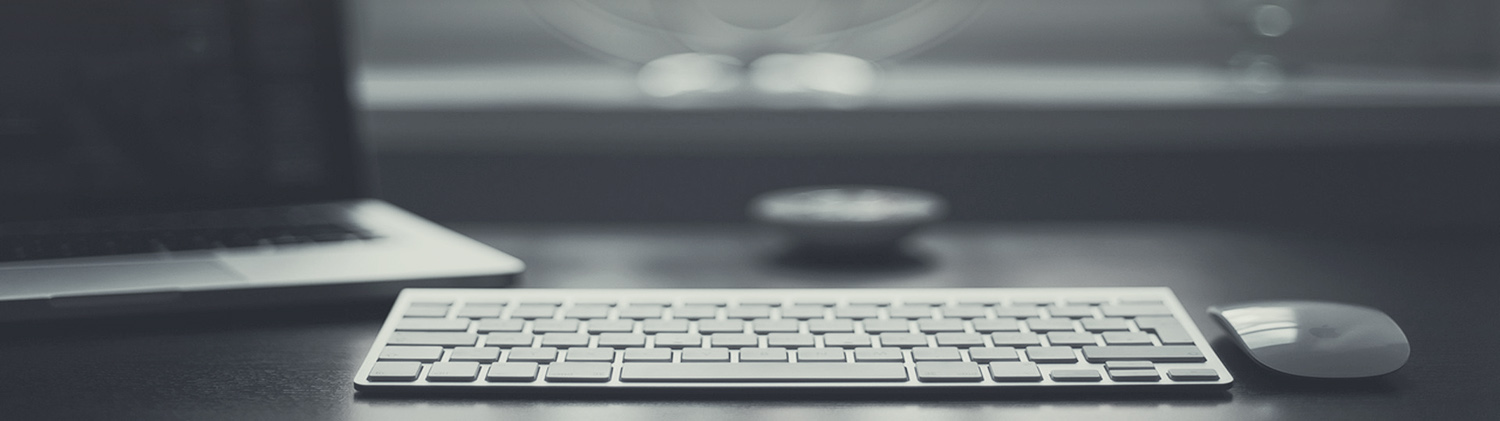
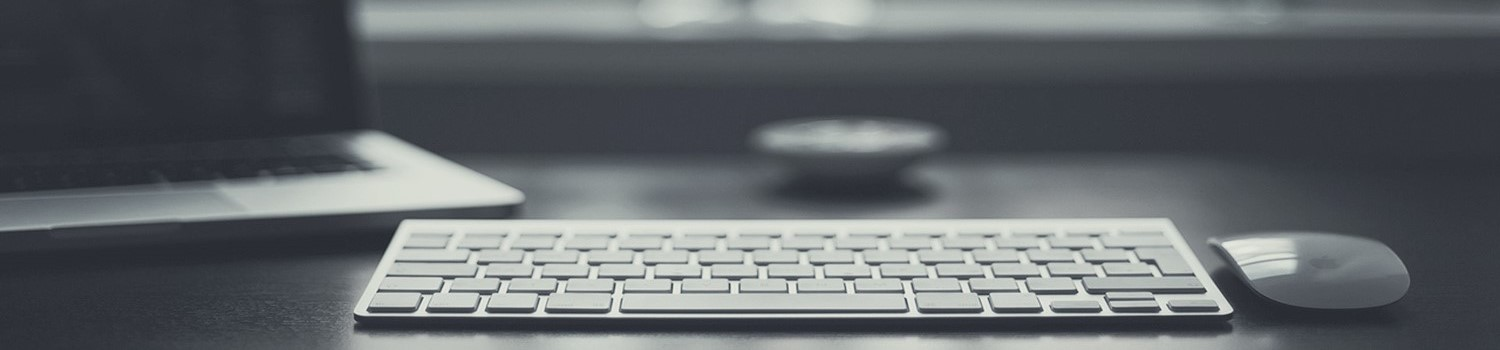
Added Page and navigation

diff --git a/assets/css/main.scss b/assets/css/main.scss
@@ -9,3 +9,11 @@
 .page-head{
     color: rgb(209, 250, 255);
 }
+.sidebar .nav__list{
+    color:rgb(209, 250, 255);
+    padding-top: 2rem;
+    border-top: 1px solid #51555d;
+    li:hover{
+        color: rgba(98, 121, 255, 0.699)
+    }
+}

diff --git a/_posts/2020-09-20-testing.md b/_posts/2020-09-20-testing.md
@@ -1,5 +1,5 @@
 ---
-title: "Why Test?"
+title: "Kids, Don't Skip Tests"
 categories:
     - Experience
     - Web Development
@@ -8,6 +8,61 @@ tags:
     - expressjs
     - mocha
     - chai
+header : 
+    overlay_image : /assets/images/testing.png
+    overlay_filter : 0.2
+    show_overlay_excerpt : false
+sidebar:
+    nav : web_dev
 ---
 
-It was late into the development that I realized that Automated Testing is another major part that I was missing out on. Sure we tested all the api routes with Postman when we made them, but this is not a sustainable approach.
+It was late into the development that I realized that Automated Testing is another major part that I was missing out on.  
+Sure we tested all the api routes with Postman when we made them, but this is not a sustainable approach.  
+
+I understood this when I slightly tweaked one of the Controllers, which in turn broke the working of some other controllers that my teammates had worked on and depended on that one.  
+
+![Cat Meme](/assets/images/wasnt_me_cat.jpg)  
+
+Even though this was a rare case because we worked on completely seperate parts of the website, I thought that I should get some practice building tests since I had never used them before.  
+
+That's where [Mocha](https://mochajs.org/#getting-started) and [Chai](https://www.chaijs.com/) come in.  
+Mocha is a testing Framework which provides functions executed in a serial fashion. Chai is an assertions library which provides functions that compare the actual values and expected values. Both of these are used together to develop test suites.  
+So I setup my test suite in the following way : 
+```
+Backend 
+    ├── test
+          ├── test.js
+          ├── event.js
+          ... Other Test Files ...
+    ├── controllers
+    ...
+```
+
+A sample test file looks like this : 
+
+```javascript
+let chai = require('chai');
+let chaihttp = require('chai-http');
+let should = chai.should();
+
+describe('Login', ()=>{
+    before(()=>{
+        CreateUser("testuser");
+    });
+    it("Should Not Login",(done)=>{
+        chai.request(app)
+        .post('/api/signin')
+        .set('Accept', 'application/json')
+        .set('Content-Type', 'application/json')
+        .send({email:"testuser@gmail.com", password:"wrongpassword"})
+            .end((ignore,res)=>{
+                res.should.not.have.status(200);
+                done();
+            });
+    });
+});
+```
+In my `package.json` file, Mocha is called with the test.js file as argument `mocha test.js`, the test.js calls `require()` on all the other test files using which I could specify the order of test execution.  
+I did the tests this way because I needed to call some common functions to kill the server and hide console (using Sinon) which would be present in all test files and also call some functions before and after all tests like add some users to the database and clean up the database after all the tests are executed.  
+
+PS. Are you curious how to type those `├` and `─` symbols? Hold `Alt` and type 195 (`├`) or 196 (`─`) on the numpad. You can type all [ASCII codes](https://theasciicode.com.ar/) that way...

diff --git a/_posts/2020-09-17-the-beggining.md b/_posts/2020-09-17-the-beggining.md
@@ -7,6 +7,8 @@ tags:
     - nodejs
     - expressjs
     - mongodb
+sidebar:
+    nav : web_dev
 ---
 I decided to work on the Backend Part of the website (I suck at Design). I was clueless about Website Development, the only "Website" I had played with were one page html and css websites....  
 
@@ -21,6 +23,8 @@ Anyways, I started Working on the Events Page requests, CRUD stuff (Create, Read
 
 Being new to Mongodb and Databases in general I had some pretty serious misconceptions about finding data in a Collection (A group of documents). I used to think that for searching for an item in the database, the query searches through all the documents of a Database, But Mongodb has this nice thing called [Indexes](https://docs.mongodb.com/manual/indexes/) which is a seperate data structure and contains specific fields, Mongodb Indexes on '_id' field by default and you can [add more fields](https://docs.mongodb.com/manual/core/index-single/) if you want. This allows one to do CRUD operations quickly.  
 Do keep in mind though that creating too many Indexes is also a bad Idea, each document has a field in each Index, so for large collections a lot of excess space would be required for the Indexes.
+
+![Execution Stats](/assets/images/executionplan.png)
 
 You can optimize Mongodb queries further by checking out the query Plans of the queries you're planning to execute. Do this using the [.explain()](https://docs.mongodb.com/manual/reference/method/cursor.explain/#cursor.explain) method in the Mongodb shell. 
 The queryPlanner mode will tell you if it is using IXSCAN (Index Scan), COLLSCAN (Collection Scan) etc.  

diff --git a/_posts/2020-09-16-progenitor.md b/_posts/2020-09-16-progenitor.md
@@ -7,9 +7,11 @@ tags:
     - websites
 # layout: splash
 header : 
-    overlay_image : /assets/images/basic_header - Copy.jpg
+    overlay_image : /assets/images/basic_header.jpg
     overlay_filter : 0.2
 excerpt : Experience is the name everyone gives to their mistakes.  <cite>Oscar Wilde</cite>
+sidebar:
+    nav : web_dev
 ---
 
 <strong>It all began with winning a coding competition.</strong> You see, I love solving problems, so naturally I took a liking to competitive coding. 

diff --git a/_posts/2020-09-19-chat.md b/_posts/2020-09-19-chat.md
@@ -8,6 +8,8 @@ tags:
     - expressjs
     - socket.io
     - websockets
+sidebar:
+    nav : web_dev
 ---
 
 One of the things that I wish I knew when I was starting out was that overthinking the Database design for extreme use cases not a good idea.  

diff --git a/_posts/2020-09-18-notification.md b/_posts/2020-09-18-notification.md
@@ -8,6 +8,8 @@ tags:
     - expressjs
     - mongodb
     - agenda
+sidebar:
+    nav : web_dev
 ---
 
 ![Notif meme](/assets/images/gettingnot.png)
